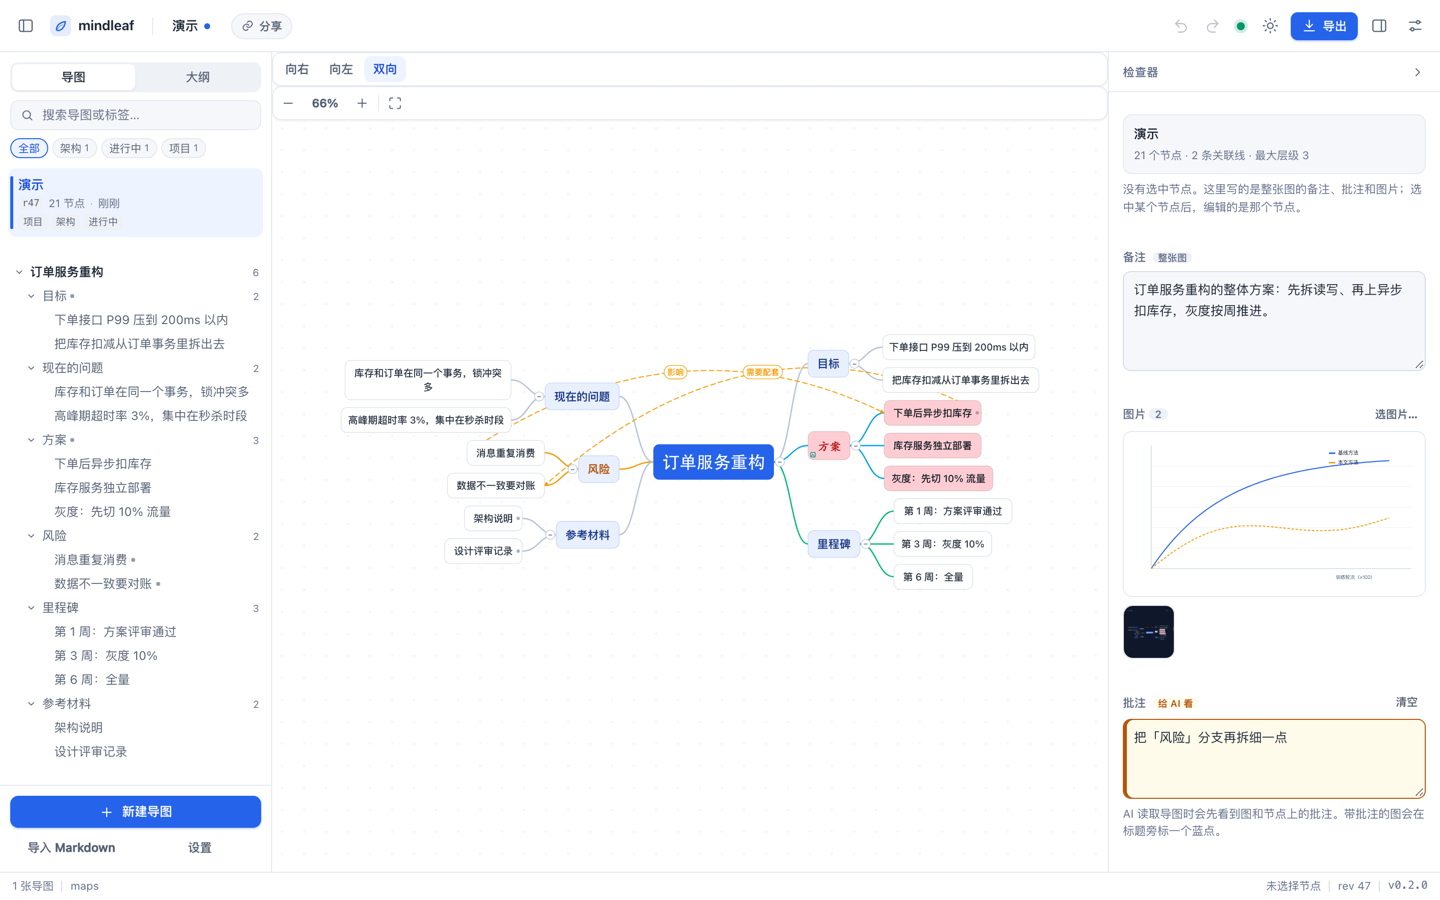
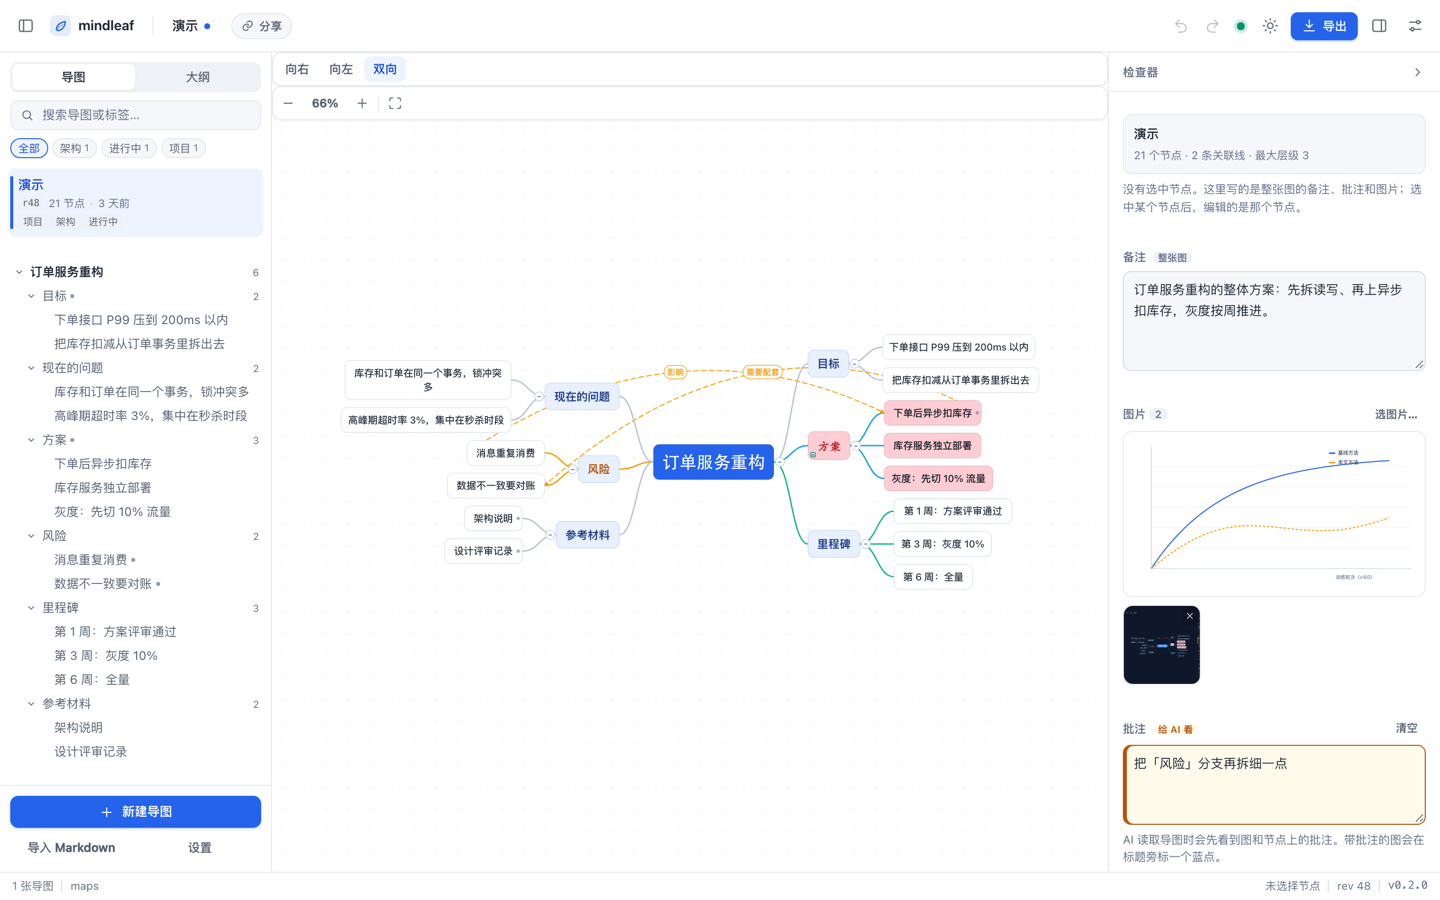
图片小图标放大 50%，删除按钮贴到右上角
- 收起状态的小图标 52px → 78px（一排并排时更容易看清内容）
- 收起状态下 × 从"压在图片中间"改成紧贴右上角（内缩 1px、18px 见方、圆角 5px），
  不会再一点就误删；小图标上常显 85% 不透明，手机上也能直接点
- 展开状态不变（右上角 ×、右下角收起箭头）
- 顺带把 e2e 里贴图的等待时间放宽到 2.5s，机器忙时不再偶发失败

测试：190 个全过；新增断言检查小图标 ≥74px、× 距右上角 ≤3/4px、按钮 ≤20px。
截图 map-panel.png / note-images.png 按新尺寸重拍。

diff --git a/web/style.css b/web/style.css
@@ -1189,13 +1189,13 @@ select.input { appearance: none; background-image: linear-gradient(45deg, transp
 }
 /* 收起状态：一排小图标 */
 .image-item.is-collapsed {
-  width: 52px;
+  width: 78px;
   flex: none;
 }
 .image-item.is-collapsed .image-icon {
   display: block;
-  width: 52px;
-  height: 52px;
+  width: 78px;
+  height: 78px;
   padding: 0;
   border: 0;
   border-radius: 9px;
@@ -1266,6 +1266,20 @@ select.input { appearance: none; background-image: linear-gradient(45deg, transp
 .image-del:focus-visible { opacity: 1; }
 .image-del svg { width: 12px; height: 12px; fill: none; stroke: currentColor; stroke-width: 2; stroke-linecap: round; }
 .image-del:hover { background: var(--danger); }
+
+/* 收起的小图标：× 紧贴右上角、缩小一号，不然会压在图中间容易误点 */
+.image-item.is-collapsed .image-del {
+  top: 1px;
+  right: 1px;
+  width: 18px;
+  height: 18px;
+  border-radius: 5px;
+  background: color-mix(in srgb, #0b1220 62%, transparent);
+}
+.image-item.is-collapsed .image-del svg { width: 10px; height: 10px; }
+/* 小图标上常显一角，方便直接删（手机上也没有 hover） */
+.image-item.is-collapsed .image-del { opacity: 0.85; }
+.image-item.is-collapsed:hover .image-del { opacity: 1; }
 
 /* 右下角的"收起"按钮：点它回到小图标 */
 .image-collapse {
